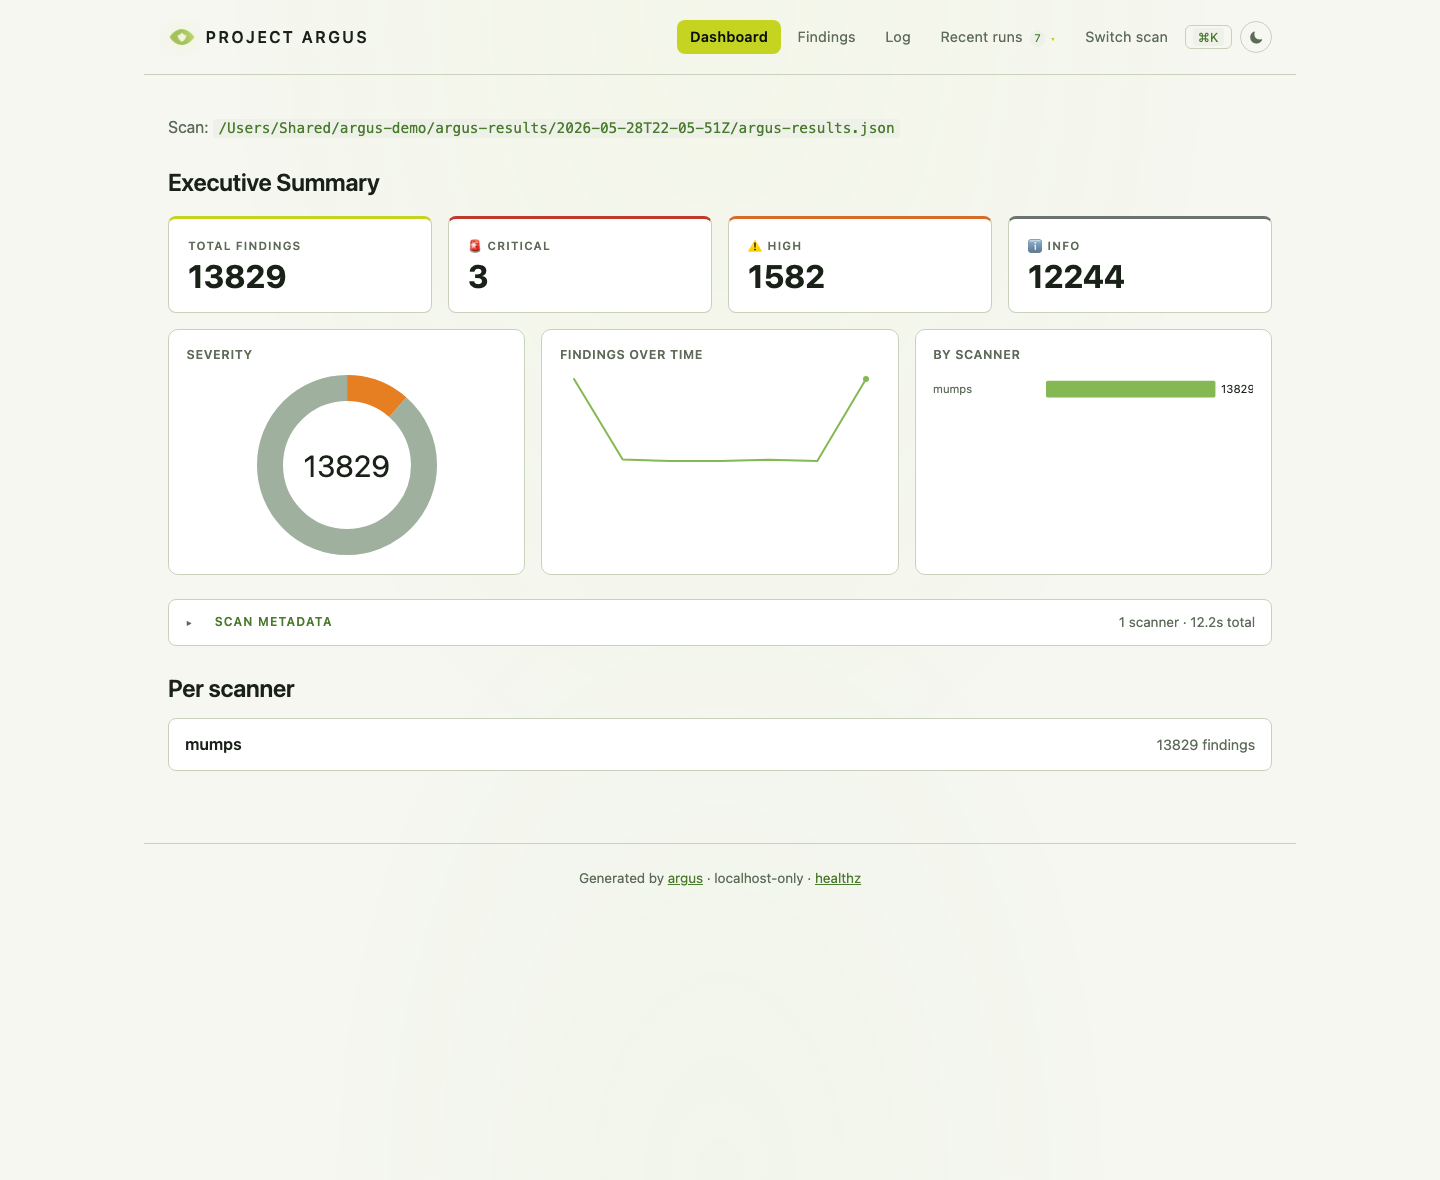
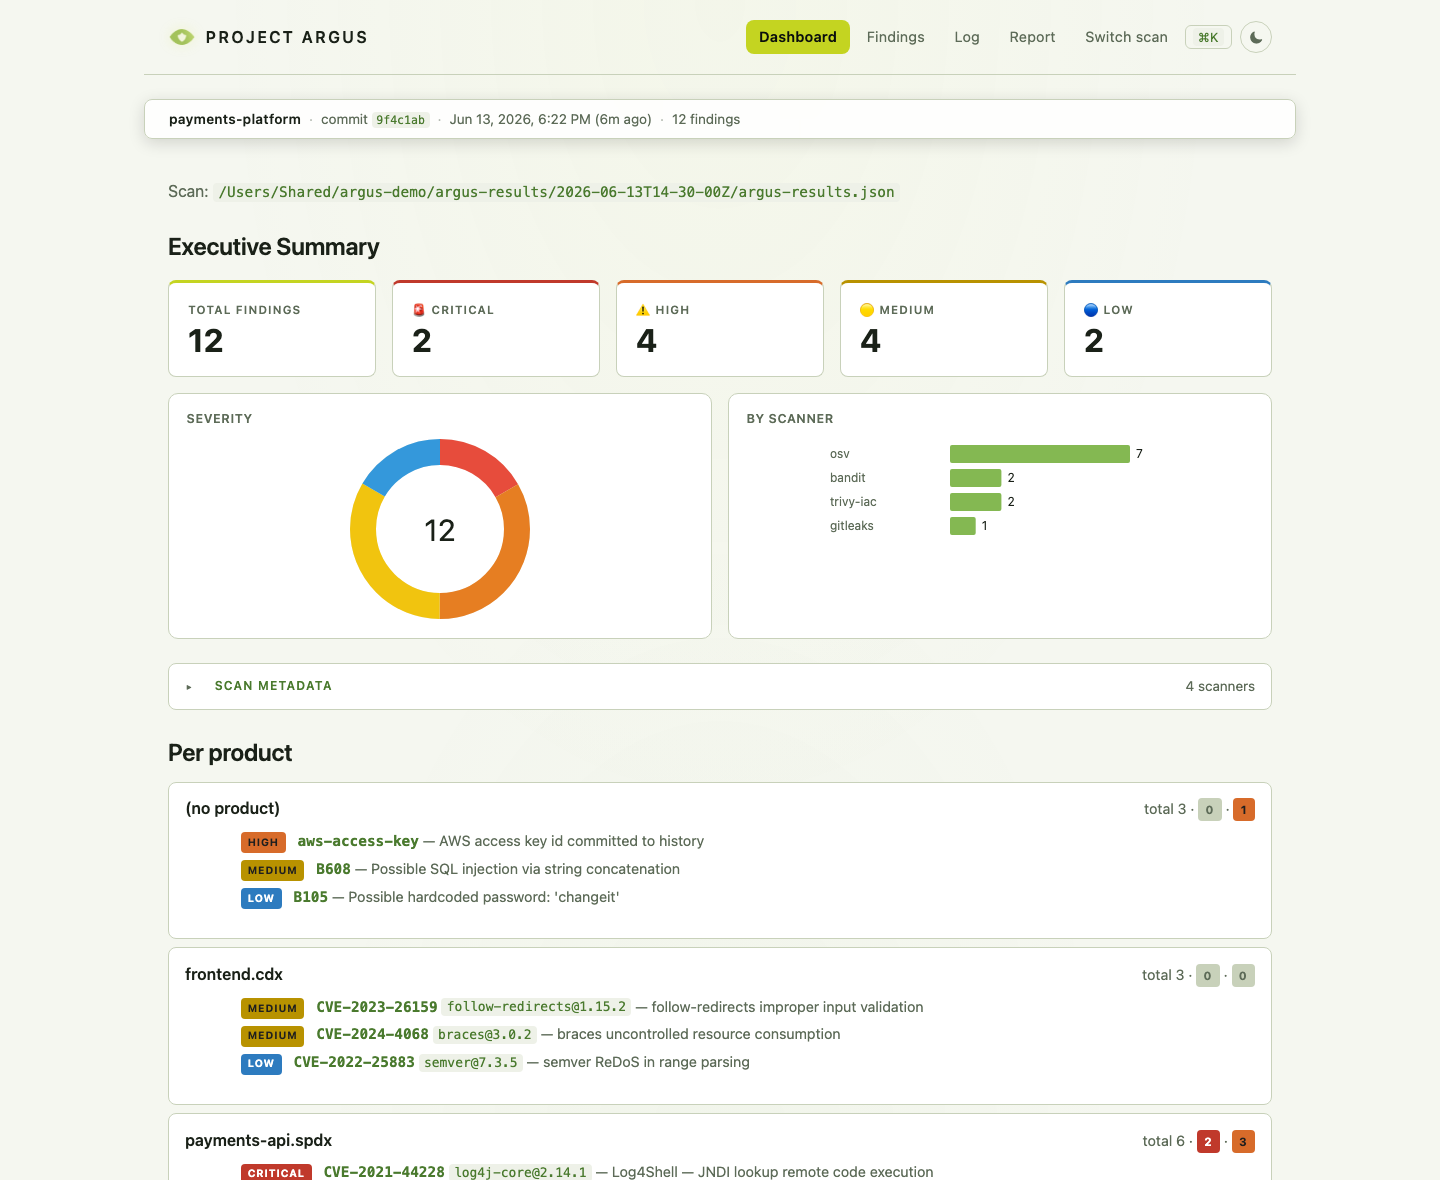
feat(browser): persistent sticky scan-context bar (B0 IA)
Finish the B0 information-architecture work with a slim sticky bar under
the header — project · source commit · scan time · finding count — so the
active scan's identity follows the user down every primary view
(dashboard, findings, log) rather than living only on the dashboard.

Chose this over a full left sidebar: for a five-destination localhost
read-only tool a sidebar reads sparse and over-engineered, and reshaping
every page carried real clipping/theme risk. The context bar delivers the
persistent-context signal of a mature product while keeping the clean top
nav — the lower-risk choice.

- _context_bar(summary, resolved) builds {project, commit, mtime, total};
  threaded through _base_context so the bar appears wherever a single
  scan is in scope, and is omitted on the picker / diff.
- Theme-token based (flips light/dark), frosted translucent background
  via color-mix with a solid fallback, z-index below the header so the
  Recent-runs dropdown still paints over it.
- Time reuses scan-mtime.js (moved to base.html.j2 so it covers the bar
  on every page); no-JS degrades to a raw epoch.
- 6 tests (identity, both primary views, humanizable time, singular
  grammar, picker omission, no-git fallback).
- Docs + regenerated dashboard/findings screenshots (dark + light),
  BROWSER-ROADMAP B0 marked shipped, .ai/architecture updated.

diff --git a/argus/viewers/browser/static/argus.css b/argus/viewers/browser/static/argus.css
@@ -318,6 +318,43 @@ header nav a[aria-current="page"] {
   background: var(--argus-deep-bg);
 }
 
+/* ── Sticky scan-context bar (B0 IA) ──────────────────────────────
+ * A slim strip under the header carrying the active scan's identity
+ * (project · commit · scan time · finding count) so context follows
+ * the user down every primary view. Sticks to the top on scroll.
+ *
+ * z-index stays at 50 — below the header's stacking context (100) —
+ * so the Recent-runs dropdown still paints over the bar rather than
+ * being clipped by it. Theme-aware via tokens (flips with light/dark);
+ * a frosted translucent background where color-mix + backdrop-filter
+ * are supported, with a solid var(--surface) fallback first. */
+.scan-context-bar {
+  position: sticky; top: 0; z-index: 50;
+  display: flex; align-items: center; flex-wrap: wrap;
+  gap: 0.5rem;
+  max-width: var(--max-width); margin: 0 auto 1.5rem;
+  padding: 0.55rem 1.5rem;
+  background: var(--surface);
+  background: color-mix(in srgb, var(--surface) 88%, transparent);
+  border: 1px solid var(--border);
+  border-radius: var(--radius);
+  box-shadow: 0 4px 16px rgba(0, 0, 0, 0.15);
+  font-size: 0.85rem; color: var(--fg-muted);
+  -webkit-backdrop-filter: blur(8px);
+  backdrop-filter: blur(8px);
+}
+.scb-project {
+  font-weight: 600; color: var(--fg);
+  font-family: var(--font-heading);
+  letter-spacing: 0.02em;
+}
+.scb-commit code {
+  font-family: ui-monospace, SFMono-Regular, Consolas, monospace;
+  font-size: 0.85em; color: var(--accent-dim);
+}
+.scb-sep { opacity: 0.45; }
+.scb-count, .scb-time { color: var(--fg-muted); }
+
 /* ── Scan metadata panel ─────────────────────────────────────────
  * Collapsed <details> on the dashboard showing per-scanner info
  * the user might need for audit questions: tool versions,

diff --git a/argus/viewers/browser/app.py b/argus/viewers/browser/app.py
@@ -206,6 +206,37 @@ def _scan_metadata(scan_summary, resolved: Path | None) -> dict | None:
     }
 
 
+def _context_bar(scan_summary, resolved: Path | None) -> dict | None:
+    """Persistent scan-context strip for the sticky bar under the header (B0 IA).
+
+    Surfaces the identity of the scan currently in scope — project, source
+    commit, when it ran, and the finding count — so that context follows the
+    user down every primary view rather than living only on the dashboard.
+
+    Returns ``None`` when no scan is loaded (picker, diff, error states) so the
+    bar is simply omitted rather than rendering an empty shell. ``project`` is
+    the repo-root (or cwd) basename when the scan recorded one, falling back to
+    the results directory name.
+    """
+    if scan_summary is None:
+        return None
+    ctx = getattr(scan_summary, "scan_context", None)
+    repo_root = (ctx.repo_root or ctx.cwd) if ctx else ""
+    project = Path(repo_root).name if repo_root else (resolved.parent.name if resolved else "")
+    mtime = None
+    if resolved is not None:
+        try:
+            mtime = resolved.stat().st_mtime
+        except OSError:
+            mtime = None
+    return {
+        "project": project or "scan",
+        "commit": (ctx.commit_sha[:7] if ctx and ctx.commit_sha else ""),
+        "mtime": mtime,
+        "total": scan_summary.total_count,
+    }
+
+
 def create_app(
     root: str | None = None,
     *,
@@ -277,7 +308,7 @@ def create_app(
         # even though the path ends in .ico.
         return FileResponse(_STATIC_DIR / "favicon.png", media_type="image/png")
 
-    def _base_context(resolved: Path | None = None) -> dict:
+    def _base_context(resolved: Path | None = None, scan_summary=None) -> dict:
         """Shared context keys threaded into every HTML render.
 
         Recent scans power the header dropdown — always visible so
@@ -286,9 +317,15 @@ def create_app(
         that don't have a single "current" scan (the picker, the diff
         view) pass ``None``; nothing is highlighted but the list still
         renders.
+
+        ``scan_summary`` (when the route has already loaded one) feeds the
+        sticky scan-context bar under the header — project / commit / scan
+        time / finding count. Routes without a single loaded scan leave it
+        ``None`` and the bar is omitted.
         """
         return {
             "recent_scans": _collect_recent_scans(app.state.root, resolved),
+            "scan_context_bar": _context_bar(scan_summary, resolved),
         }
 
     def _load_scan(scan: str | None) -> tuple[object, Path | None, str | None]:
@@ -337,7 +374,7 @@ def create_app(
         scan by pointing back at ``/?scan=...``.
         """
         scan_summary, resolved, error = _load_scan(scan)
-        base = _base_context(resolved)
+        base = _base_context(resolved, scan_summary)
         summary = None
         charts = None
         if scan_summary is not None:
@@ -472,7 +509,7 @@ def create_app(
         # typo in the URL doesn't bubble into KeyError territory.
         active_sort = sort if sort in _ALLOWED_SORTS else "severity_desc"
         context = {
-            **_base_context(resolved),
+            **_base_context(resolved, scan_summary),
             "scan_param": scan,
             "scan_label": str(resolved) if resolved else None,
             "summary": scan_summary,
@@ -834,7 +871,7 @@ def create_app(
             request=request,
             name="log.html.j2",
             context={
-                **_base_context(resolved),
+                **_base_context(resolved, scan_summary),
                 "scan_param": scan,
                 "scan_label": str(resolved) if resolved else None,
                 "log_available": log_data is not None,

diff --git a/argus/tests/viewers/browser/test_context_bar.py b/argus/tests/viewers/browser/test_context_bar.py
@@ -1,0 +1,90 @@
+"""Phase B0 (IA) — the persistent sticky scan-context bar under the header.
+
+Verifies the bar surfaces the active scan's identity (project · commit · time ·
+finding count) on the primary views and is omitted where there's no single
+scan in scope (the picker).
+"""
+
+from __future__ import annotations
+
+import json
+
+import pytest
+
+pytest.importorskip("fastapi")
+
+from fastapi.testclient import TestClient   # noqa: E402
+
+from argus.viewers.browser.app import create_app   # noqa: E402
+
+
+def _payload():
+    return {
+        "severity_threshold": "high",
+        "scan_context": {"cwd": "/build/payments-platform",
+                         "repo_root": "/build/payments-platform",
+                         "commit_sha": "9f4c1ab7e2d05c8831a6b4e0f7c2d9a3b5e81746"},
+        "results": [{
+            "scanner": "osv",
+            "findings": [
+                {"id": "CVE-2021-44228", "severity": "critical", "title": "Log4Shell",
+                 "cve": "CVE-2021-44228", "scanner": "osv", "metadata": {}},
+                {"id": "B105", "severity": "low", "title": "hardcoded password",
+                 "scanner": "bandit", "metadata": {}},
+            ],
+            "raw_report": None, "sarif_report": None, "metadata": {},
+            "critical_count": 1, "high_count": 0, "medium_count": 0,
+            "low_count": 1, "total_count": 2,
+        }],
+    }
+
+
+def _app(tmp_path):
+    (tmp_path / "argus-results.json").write_text(json.dumps(_payload()))
+    return create_app(root=str(tmp_path))
+
+
+class TestContextBar:
+    def test_dashboard_shows_bar_identity(self, tmp_path):
+        body = TestClient(_app(tmp_path)).get("/").text
+        assert 'class="scan-context-bar"' in body
+        assert "payments-platform" in body          # project from repo_root basename
+        assert "9f4c1ab" in body                     # commit short (7)
+        assert "2 findings" in body                  # finding count
+
+    def test_findings_shows_bar(self, tmp_path):
+        body = TestClient(_app(tmp_path)).get("/findings").text
+        assert 'class="scan-context-bar"' in body
+        assert "payments-platform" in body
+
+    def test_time_element_is_humanizable(self, tmp_path):
+        # The bar's time carries the scan-mtime hook + a raw epoch so
+        # scan-mtime.js can upgrade it (and no-JS still shows something).
+        body = TestClient(_app(tmp_path)).get("/").text
+        assert "scan-mtime scb-time" in body
+        assert "data-epoch=" in body
+
+    def test_singular_finding_grammar(self, tmp_path):
+        payload = _payload()
+        payload["results"][0]["findings"] = payload["results"][0]["findings"][:1]
+        payload["results"][0]["total_count"] = 1
+        payload["results"][0]["low_count"] = 0
+        (tmp_path / "argus-results.json").write_text(json.dumps(payload))
+        body = TestClient(create_app(root=str(tmp_path))).get("/").text
+        assert "1 finding" in body
+        assert "1 findings" not in body
+
+    def test_picker_has_no_bar(self, tmp_path):
+        # No single scan in scope on the picker → bar omitted.
+        body = TestClient(_app(tmp_path)).get("/picker").text
+        assert 'class="scan-context-bar"' not in body
+
+    def test_project_falls_back_without_git_context(self, tmp_path):
+        payload = _payload()
+        del payload["scan_context"]
+        (tmp_path / "argus-results.json").write_text(json.dumps(payload))
+        body = TestClient(create_app(root=str(tmp_path))).get("/").text
+        # No commit when there's no scan_context, but the bar still renders
+        # with the finding count and a directory-derived project label.
+        assert 'class="scan-context-bar"' in body
+        assert "2 findings" in body

diff --git a/docs/developer/BROWSER-ROADMAP.md b/docs/developer/BROWSER-ROADMAP.md
@@ -48,6 +48,15 @@ scanned and what we found."
 
 ## Phase B0 — Design system & motion foundation (lands first)
 
+**Status — ✅ shipped.** Design tokens, the command palette, the motion layer
+(View Transitions, count-up, draw-on), and the crafted theme toggle landed with
+B1. The IA piece shipped last: **top nav + a persistent sticky scan-context
+bar** (project · commit · scan time · finding count) on the primary views —
+chosen over a full left sidebar, which reads sparse and over-engineered for a
+five-destination localhost tool (the lower-risk choice that keeps the clean top
+nav while still delivering the persistent-context signal). `_context_bar` builds
+it; `_base_context` threads it through.
+
 The investment that makes the difference between "internal tool" and
 "product built by a large, mature company" — and the base the charts (B1)
 and report (B4) sit on. All dependency-light: CSS custom properties, the
@@ -61,11 +70,11 @@ Tailwind.
   identically across badge, row accent, donut, chart), a type scale, an 8px
   spacing scale, radii, an elevation/shadow system, and `:focus-visible`
   rings. The quiet craft that signals intention (Linear / Vercel / Stripe).
-- **Information architecture**: a persistent left sidebar (Overview ·
-  Findings · Diff · Report) + a sticky top bar carrying scan context
-  (project · commit · timestamp); overview→drilldown so every dashboard tile
-  links into a pre-filtered findings view (Snyk / GitHub Security / Wiz
-  pattern).
+- **Information architecture**: top nav + a **persistent sticky scan-context
+  bar** carrying scan context (project · commit · scan time · finding count)
+  on every primary view — *shipped in favour of a left sidebar* (see Status
+  above); overview→drilldown so every dashboard tile links into a pre-filtered
+  findings view (Snyk / GitHub Security / Wiz pattern).
 - **Command palette** (Cmd/Ctrl-K, vanilla JS) — browser parity with the
   TUI's `Ctrl+P`; jump to any view / filter.
 - **Motion primitives**, each gated behind

diff --git a/docs/view-browser.md b/docs/view-browser.md
@@ -39,11 +39,19 @@ For multi-user enterprise deployments, see the separate
 
 ## Views
 
+**Persistent scan context.** Every primary view (dashboard, findings, log)
+carries a slim **sticky context bar** under the header — project · source
+commit · when the scan ran · finding count — so you always know which scan
+you're looking at as you scroll and move between views. It's built on theme
+tokens, so it flips cleanly between light and dark, and degrades gracefully
+without JavaScript (the timestamp just stays in epoch form). On the picker and
+diff views, where there's no single scan in scope, it's omitted.
+
 ### `/` — Executive summary dashboard
 
 Opens here by default.
 
-![Argus browser dashboard — severity-accented stat cards, a severity donut, a findings-over-time trend, and a by-scanner bar chart](images/browser/dashboard.png)
+![Argus browser dashboard — a sticky scan-context bar (project, commit, scan time, finding count), then severity-accented stat cards, a severity donut, a findings-over-time trend, and a by-scanner bar chart](images/browser/dashboard.png)
 
 Shows:
 
